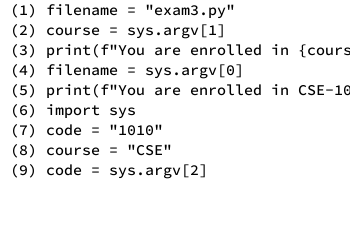
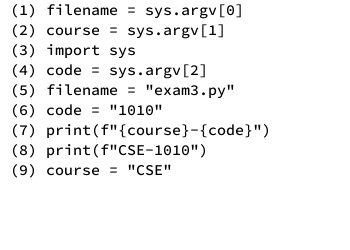
updating

diff --git a/lib/functions.py b/lib/functions.py
@@ -35,7 +35,6 @@ def gen_correct_answer(correct_sol, shuffled_sol):
     correct_answer = ""
     all_lines = [ str(i+1) for i in range(len(shuffled_sol))]
     remain_lines = all_lines.copy()
-    
     for line_cor in correct_sol:
         for line_shuf in shuffled_sol:
             # print(f"Instruction: {line_shuf}  , index of ): ", line_shuf.index(")"))
@@ -97,6 +96,7 @@ def gen_random_choices_wICinst(correct_answer, no_of_choices, remain_lines):
     random_choices = []
     choice_array = correct_answer.split(",")
     total_lines = len(choice_array + remain_lines)
+    
 
     while len(random_choices) < no_of_choices - 1:
         # Select the first three lines from the correct answer
@@ -119,12 +119,13 @@ def gen_random_choices_wICinst(correct_answer, no_of_choices, remain_lines):
         
         # Convert the choices to a string
         choice = ",".join(map(str, choices))
-        print(f"# # # # # # choice: {choice}")
+        
         # Calculate similarity between the random sequence and the correct answer
         similarity = sequence_similarity(choice.split(","), correct_answer.split(","))
-        print(f"# # # # # # similarity: {similarity}")
+        
         # Check if the generated sequence is close to the correct answer
-        if choice != correct_answer and similarity >= len(correct_answer.split(",")) - 1:
+        # if choice != correct_answer and similarity >= len(correct_answer.split(",")) - 1:
+        if (choice != correct_answer) and (similarity >= len(correct_answer.split(",")) - len(remain_lines)) and (len(choice) == len(correct_answer)):
             random_choices.append(choice)
     
     random_choices.append(correct_answer)

diff --git a/codefiles/E3-C.py b/codefiles/E3-C.py
@@ -2,10 +2,10 @@ import sys
 filename = sys.argv[0]
 course = sys.argv[1]
 code = sys.argv[2]
-print(f"You are enrolled in {course}-{code}")
+print(f"{course}-{code}")
 
 #Incorrect lines  below
 filename = "exam3.py"
 course = "CSE"
 code = "1010"
-print(f"You are enrolled in CSE-1010")
+print(f"CSE-1010")

diff --git a/lib/settings.py b/lib/settings.py
@@ -1,5 +1,6 @@
 include_incorrect_instructions = True
-first_same_X_lines_MCQ = 0
+first_same_X_lines_MCQ = 2
+#set the length of choice in functions.py line 129 at (len(choice) == len(correct_answer)). 
 no_of_choices = 5
-image_x_dim = 350
+image_x_dim = 250
 image_y_dim = 250

diff --git a/codefiles/E1-B.py b/codefiles/E1-B.py
@@ -7,3 +7,7 @@ elif studied < 4:
     print("I should take 1010 seriously.")
 else:
     print("Wrong input")
+
+#Incorrect lines
+studied = input()
+if studied <= 4:

diff --git a/codefiles/E1-C.py b/codefiles/E1-C.py
@@ -3,3 +3,10 @@ def area (r):
     Area = pi * r**2
     return Area
 A = area(4)
+
+#Incorrect lines
+def area(2):
+    Area = pi * r * 2
+    
+    
+    
